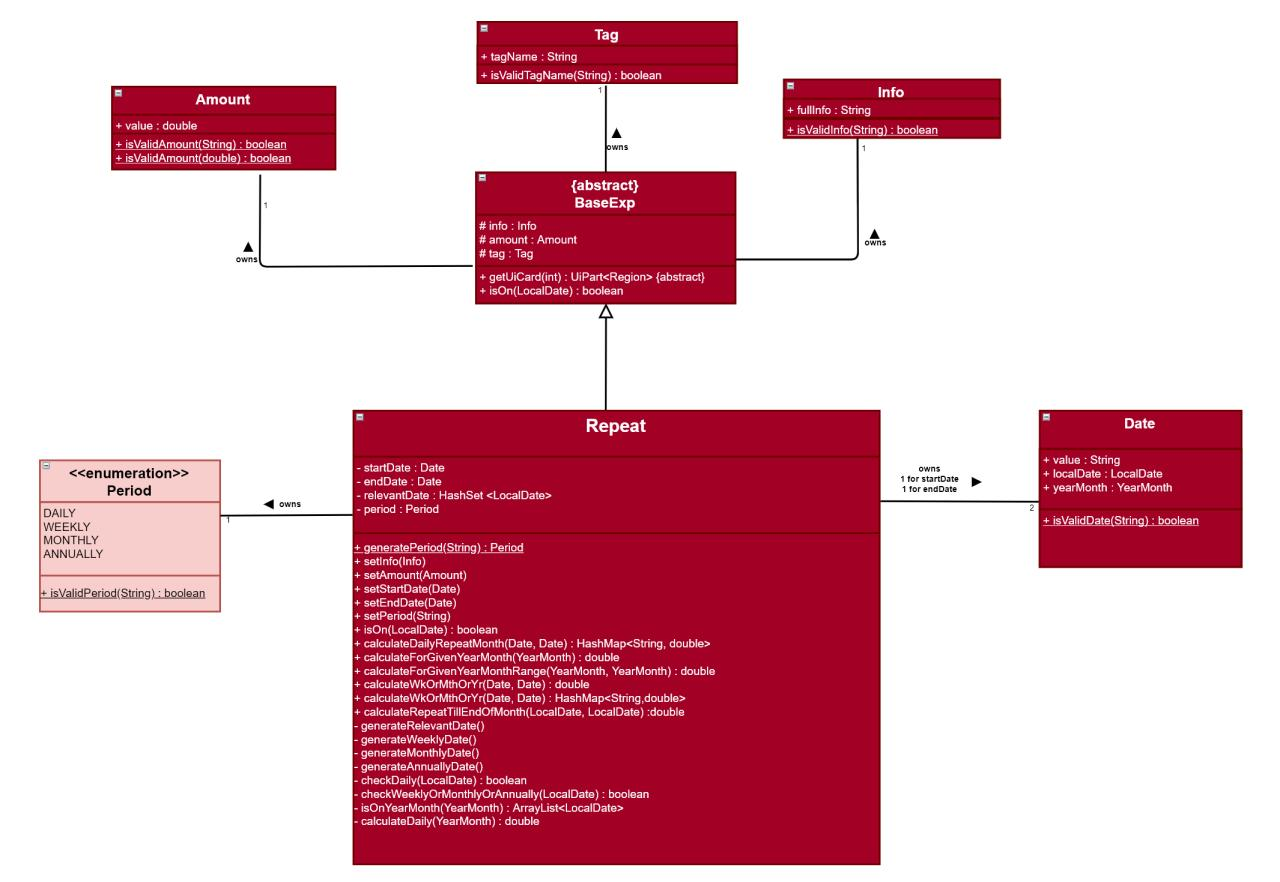
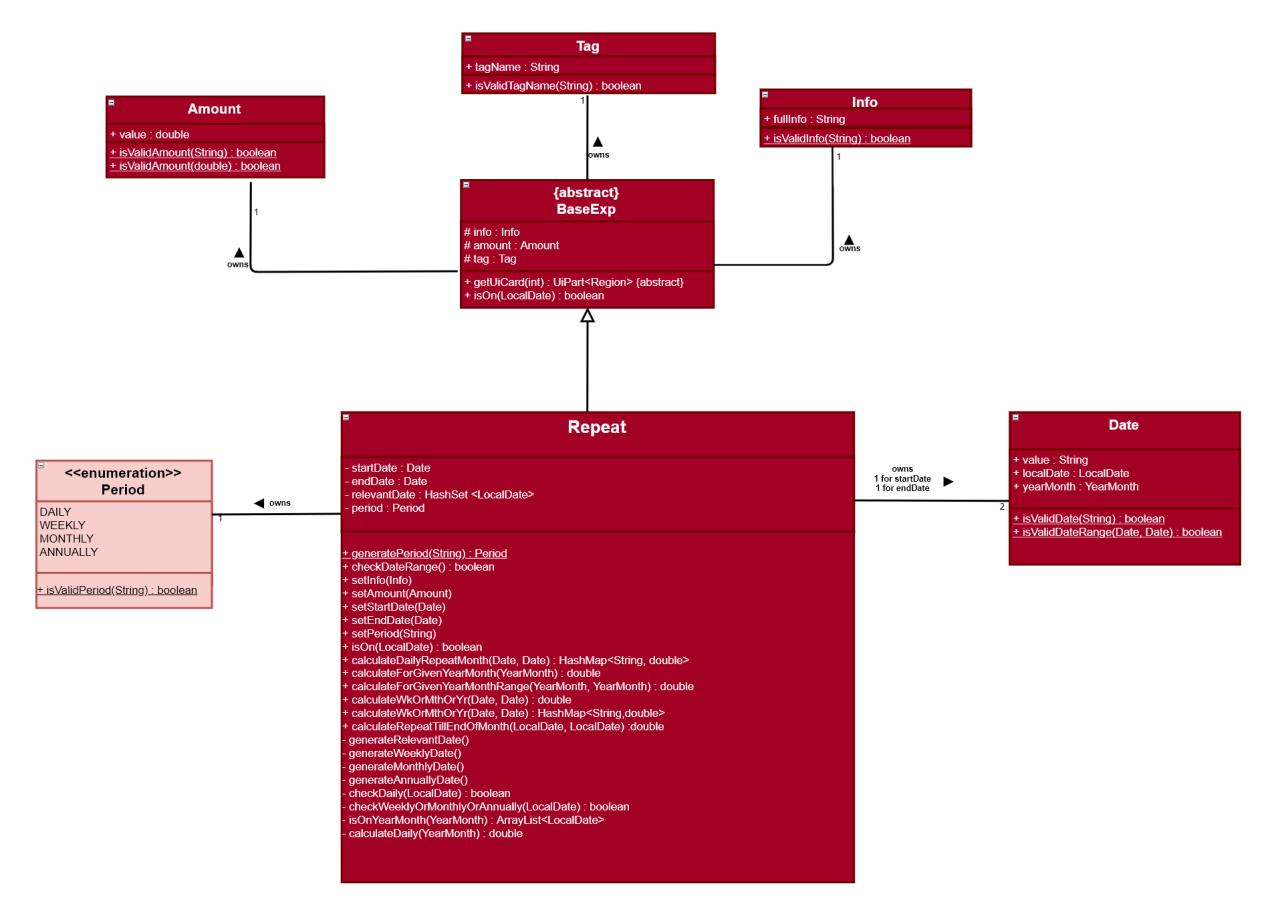
fix some bug in repeat

Changed region(s): [[0.0, 0.4286, 0.9688, 1.0], [0.0625, 0.0, 0.6875, 0.3673], [0.5938, 0.0612, 0.7812, 0.1837]]

diff --git a/src/main/java/seedu/saveit/model/expenditure/Date.java b/src/main/java/seedu/saveit/model/expenditure/Date.java
@@ -20,6 +20,8 @@ public class Date {
     public static final String MESSAGE_CONSTRAINTS = "Date should be in a format of (YYYY-MM-DD), "
                                                         + "and it should not be blank";
 
+    public static final String START_END_MESSAGE_CONSTRAINTS = "Start date should not be after end date!";
+
     public static final String YEARMONTH_MESSAGE_CONSTRAINTS = "Year and Month should be in the format of (YYYY-MM), "
                                                                 + "and it should not be blank";
 
@@ -52,6 +54,15 @@ public class Date {
         } catch (DateTimeException e) {
             return false;
         }
+    }
+
+    /**
+     * Returns true if two given date, first is after the another.
+     */
+    public static boolean isValidDateRange(Date startDate, Date endDate) {
+        requireNonNull(startDate);
+        requireNonNull(endDate);
+       return !startDate.localDate.isAfter(endDate.localDate);
     }
 
 

diff --git a/src/main/java/seedu/saveit/logic/parser/ParserUtil.java b/src/main/java/seedu/saveit/logic/parser/ParserUtil.java
@@ -69,6 +69,20 @@ public class ParserUtil {
     }
 
     /**
+     * Parses a {@code Date startDate and Date endDate} into an {@code Date}.
+     * Leading and trailing whitespaces will be trimmed.
+     * @throws ParseException if the given {@code Date startDate and Date endDate}  invalid.
+     */
+    public static boolean checkDateRange(Date startDate, Date endDate) throws ParseException {
+        requireNonNull(startDate);
+        requireNonNull(endDate);
+        if (!seedu.saveit.model.expenditure.Date.isValidDateRange(startDate, endDate)) {
+            throw new ParseException(Date.START_END_MESSAGE_CONSTRAINTS);
+        }
+        return true;
+    }
+
+    /**
      * Parses a {@code String amount} into an {@code Amount}.
      * Leading and trailing whitespaces will be trimmed.
      *

diff --git a/src/main/java/seedu/saveit/logic/parser/repeat/RepeatEditCommandParser.java b/src/main/java/seedu/saveit/logic/parser/repeat/RepeatEditCommandParser.java
@@ -57,6 +57,7 @@ public class RepeatEditCommandParser implements Parser<RepeatEditCommand> {
         if (argMultimap.getValue(PREFIX_END_DATE).isPresent()) {
             editRepeatDescriptor.setEndDate(ParserUtil.parseDate(argMultimap.getValue(PREFIX_END_DATE).get()));
         }
+
         if (argMultimap.getValue(PREFIX_TAG).isPresent()) {
             editRepeatDescriptor.setTag(ParserUtil.parseTag(argMultimap.getValue(PREFIX_TAG).get()));
         }
@@ -67,7 +68,6 @@ public class RepeatEditCommandParser implements Parser<RepeatEditCommand> {
         if (!editRepeatDescriptor.isAnyFieldEdited()) {
             throw new ParseException(RepeatEditCommand.MESSAGE_NOT_EDITED);
         }
-
         return new RepeatEditCommand(index, editRepeatDescriptor);
     }
 }

diff --git a/src/main/java/seedu/saveit/model/expenditure/Repeat.java b/src/main/java/seedu/saveit/model/expenditure/Repeat.java
@@ -12,6 +12,7 @@ import java.util.Objects;
 import javafx.scene.layout.Region;
 
 import seedu.saveit.commons.exceptions.IllegalValueException;
+import seedu.saveit.logic.commands.exceptions.CommandException;
 import seedu.saveit.ui.RepeatCard;
 import seedu.saveit.ui.UiPart;
 
@@ -142,6 +143,13 @@ public class Repeat extends BaseExp {
         } else if (duration.equalsIgnoreCase(Period.ANNUALLY.toString())) {
             this.period = Period.ANNUALLY;
         }
+    }
+
+    public boolean checkDateRange() throws CommandException {
+        if(!Date.isValidDateRange(startDate, endDate)) {
+            throw new CommandException(Date.START_END_MESSAGE_CONSTRAINTS);
+        }
+        return true;
     }
 
 

diff --git a/src/main/java/seedu/saveit/logic/parser/repeat/RepeatAddCommandParser.java b/src/main/java/seedu/saveit/logic/parser/repeat/RepeatAddCommandParser.java
@@ -48,6 +48,7 @@ public class RepeatAddCommandParser implements Parser<RepeatAddCommand> {
                 .orElseGet(() -> LocalDate.now().toString()));
         Date endDate = ParserUtil.parseDate(argMultimap.getValue(PREFIX_END_DATE)
                 .orElseGet(() -> LocalDate.now().toString()));
+        ParserUtil.checkDateRange(startDate, endDate);
         Tag tag = ParserUtil.parseTag(argMultimap.getValue(PREFIX_TAG).orElseGet(() -> "Others"));
         String period = ParserUtil.parsePeriod(argMultimap.getValue(PREFIX_PERIOD).orElseThrow());
         Repeat repeat = new Repeat(info, amount, startDate, endDate, tag, period);

diff --git a/src/main/java/seedu/saveit/logic/commands/repeat/RepeatEditCommand.java b/src/main/java/seedu/saveit/logic/commands/repeat/RepeatEditCommand.java
@@ -80,6 +80,7 @@ public class RepeatEditCommand extends Command {
         }
         Repeat repeatToEdit = (Repeat) baseExp;
         Repeat editedRepeat = createEditedRepeat(repeatToEdit, editRepeatDescriptor);
+        editedRepeat.checkDateRange();
 
         model.setRepeat(repeatToEdit, editedRepeat);
         MonthlySpendingCalculator monthlyCalculator = model.getMonthlySpending();
